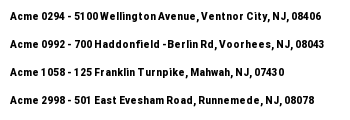
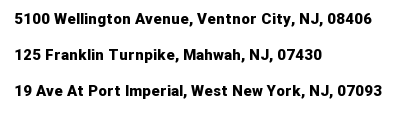
ACME ready for tweets

diff --git a/Bots/ACME.py b/Bots/ACME.py
@@ -1,5 +1,15 @@
 import requests
 from PIL import Image, ImageDraw, ImageFont
+import tweepy
+import json
+
+key_file = '../keys.json'
+with open(key_file) as f:
+    keys = json.load(f)
+
+auth = tweepy.OAuthHandler(keys["consumer_key"], keys["consumer_secret"])
+auth.set_access_token(keys["access_token"], keys["access_token_secret"])
+api = tweepy.API(auth)
 
 headers = {
     'Connection': 'keep-alive',
@@ -25,16 +35,26 @@ data = response.json()
 
 locations = ''
 pic_len = 0
+cur_open = 0
 for x in data:
     if 'NJ' in x['address'] and x['availability'] == 'yes':
-        locations += x['address'] + '\n\n'
-        pic_len += 30
+        store = x['address'].split('-')[1]
+        locations += store + '\n\n'
+        cur_open += 1
+        pic_len += 40
 
-print(locations)
-img = Image.new('RGB', (350, pic_len), color = 'white')
+print(cur_open)
+img = Image.new('RGB', (400, pic_len), color = 'white')
  
 d = ImageDraw.Draw(img)
-font = ImageFont.truetype('../Drivers/Roboto-Black.ttf')
+font = ImageFont.truetype('../Drivers/Roboto-Black.ttf',15)
 d.text((10,10), locations, fill='black',font=font)
  
 img.save('../Screenshots/ACMEcapture.png')
+
+imagePath = '../Screenshots/ACMEcapture.png'
+
+status = '{0} Acme locations are showing some availablity.\n\nCheck here: https://www.mhealthappointments.com/covidappt\n\nIf none are open check back again until it shows none available.'.format(cur_open)
+
+if cur_open > 0:
+    api.update_with_media(imagePath, status)

diff --git a/Bots/Rowan.py b/Bots/Rowan.py
@@ -20,6 +20,8 @@ api = tweepy.API(auth)
 url = "https://rowanmedicine.com/vaccine/registration.html"
 
 chrome_options = Options()
+chrome_options.add_argument('--headless')
+chrome_options.add_argument("--window-size=1200,824")
 chrome_options.add_argument('--disable-blink-features=AutomationControlled')
 chrome_options.add_experimental_option("excludeSwitches", ["enable-automation"])
 chrome_options.add_experimental_option('useAutomationExtension', False)
@@ -59,7 +61,7 @@ while True:
         status = 'Rowan Medicine:  {0} appointment(s) open at this link https://rowanmedicine.com/vaccine/registration.html'.format(numApts)
         imagePath = "../Screenshots/RowanCapture.png"
 
-        if (time.time() - Tweet_Timer > 270 or Tweet_Timer == 0) and numApts > 0:
+        if (time.time() - Tweet_Timer > 500 or Tweet_Timer == 0) and numApts > 0:
             api.update_with_media(imagePath, status)
             print('{0} Appointment(s) found.'.format(numApts))
             Tweet_Timer = time.time()

diff --git a/Bots/Freehold.py b/Bots/Freehold.py
@@ -52,7 +52,11 @@ while True:
                 if x.get_attribute("class") != 'date empty' and x.get_attribute("class") != 'date circle not-bookable':
                     numApts += 1
                     driver.get_screenshot_as_file("../Screenshots/FreeholdCapture.png")
-                    break
+                    print('Appt found')
+                    print(x.get_attribute("class"))
+                    while True:
+                        time.sleep(100000)
+
 
             if change_month.get_attribute("class") == 'navigator focusable disabled':
                 break

diff --git a/Bots/CentraState.py b/Bots/CentraState.py
@@ -20,8 +20,6 @@ api = tweepy.API(auth)
 url = "https://centrastatevac.wpengine.com/vaccine-appointment-request/?twid=njv"
 
 chrome_options = Options()
-#chrome_options.add_argument('--headless')
-#chrome_options.add_argument("--window-size=1200,824")
 chrome_options.add_argument('--disable-blink-features=AutomationControlled')
 chrome_options.add_experimental_option("excludeSwitches", ["enable-automation"])
 chrome_options.add_experimental_option('useAutomationExtension', False)

diff --git a/Bots/VNACJ.py b/Bots/VNACJ.py
@@ -55,7 +55,6 @@ api = tweepy.API(auth)
 url = "https://curogram.com/registrations/5fe2fe643b4a850044b0b3b1"
 
 chrome_options = Options()
-#chrome_options.add_argument('--headless')
 chrome_options.add_argument('--disable-blink-features=AutomationControlled')
 chrome_options.add_experimental_option("excludeSwitches", ["enable-automation"])
 chrome_options.add_experimental_option('useAutomationExtension', False)
